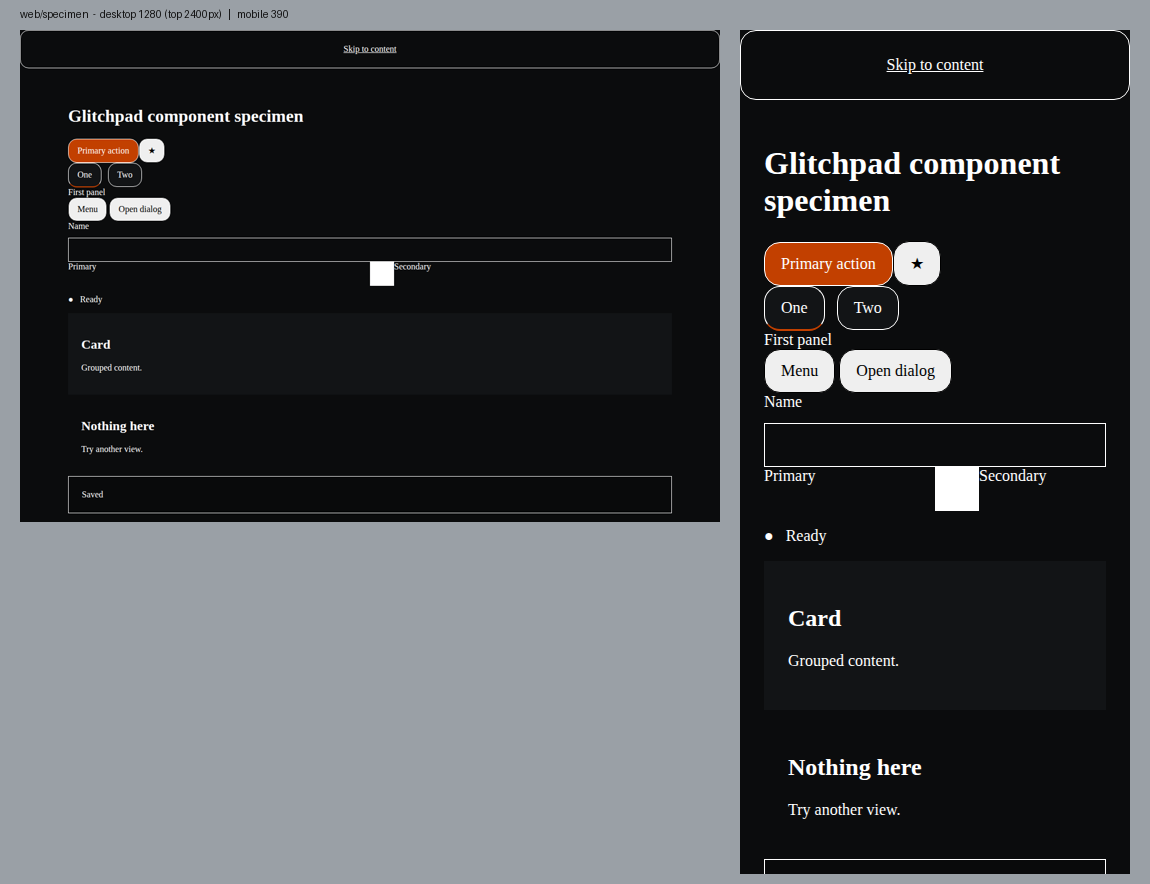
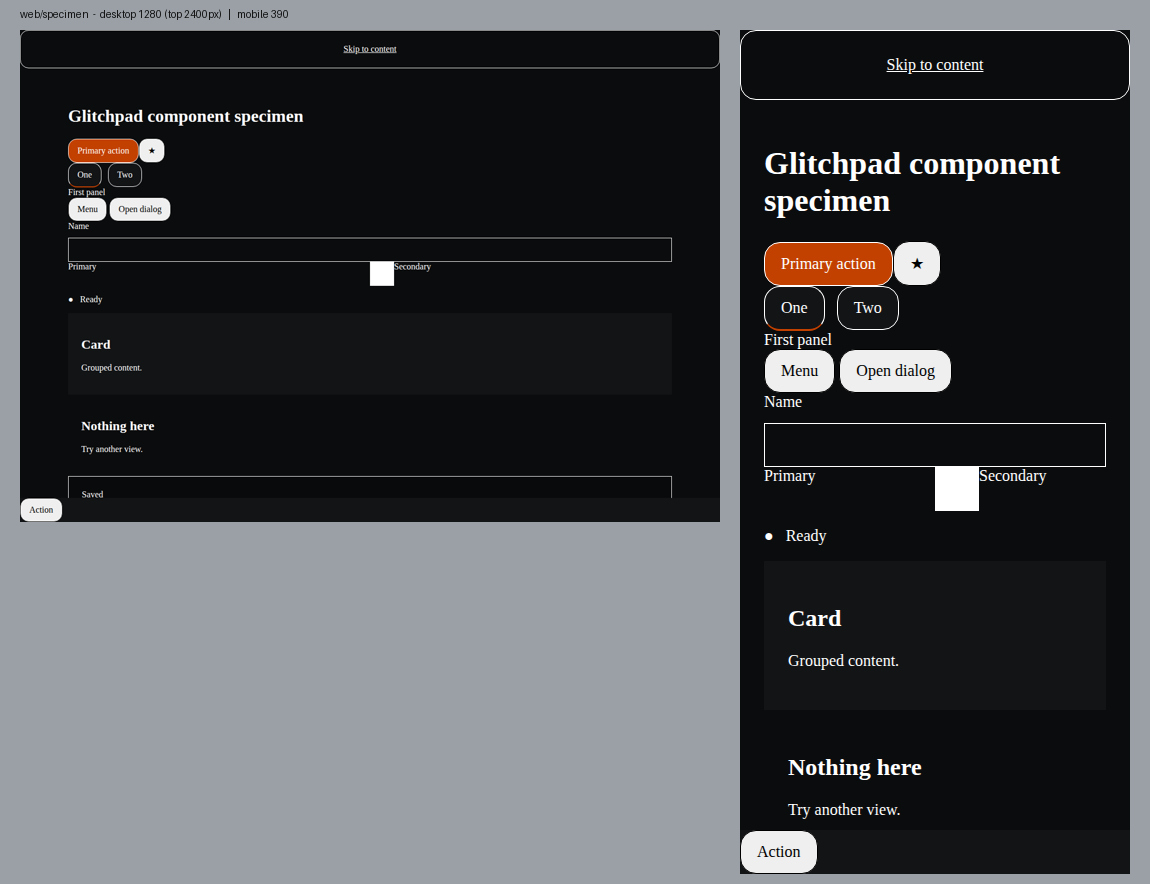
fix(S042): address AppFrame adoption review

Changed region(s): [[0.6391, 0.9163, 0.7304, 1.0], [0.0, 0.5498, 0.0609, 0.6109]]

diff --git a/brand/conformance/browser/specimen.html b/brand/conformance/browser/specimen.html
@@ -96,7 +96,7 @@
 html[data-bb-app-frame-mounted], html[data-bb-app-frame-mounted] body { block-size: 100%; margin: 0; overflow: hidden; }
 @supports selector(html:has(.bb-app-frame)) { html:has(.bb-app-frame), body:has(.bb-app-frame) { block-size: 100%; margin: 0; overflow: hidden; } }
 .bb-app-frame { block-size: 100vh; block-size: 100dvh; box-sizing: border-box; display: grid; grid-template-rows: auto minmax(0, 1fr); min-block-size: 0; overflow: hidden; padding-block-start: max(env(safe-area-inset-top), var(--bb-host-titlebar-block-end, 0rem)); padding-inline: env(safe-area-inset-left) env(safe-area-inset-right); }
-.bb-app-frame__scroll { box-sizing: border-box; min-block-size: 0; overflow: auto; padding-block-end: max(env(safe-area-inset-bottom), var(--bb-ime-block-end, 0rem)); }
+.bb-app-frame__scroll { box-sizing: border-box; grid-row: 2; min-block-size: 0; overflow: auto; padding-block-end: max(env(safe-area-inset-bottom), var(--bb-ime-block-end, 0rem)); }
 .bb-app-frame__content { box-sizing: border-box; min-block-size: 0; min-inline-size: 0; overflow-wrap: anywhere; }
 .bb-app-frame[data-bb-layout="contained"] .bb-app-frame__content { inline-size: min(100%, var(--bb-layout-content-max)); margin-inline: auto; padding: var(--bb-layout-gutter-compact); }
 .bb-app-frame[data-bb-layout="full-bleed"] .bb-app-frame__scroll { display: grid; grid-template-rows: minmax(0, 1fr); overflow: hidden; }

diff --git a/brand/web/components.css b/brand/web/components.css
@@ -12,7 +12,7 @@
 html[data-bb-app-frame-mounted], html[data-bb-app-frame-mounted] body { block-size: 100%; margin: 0; overflow: hidden; }
 @supports selector(html:has(.bb-app-frame)) { html:has(.bb-app-frame), body:has(.bb-app-frame) { block-size: 100%; margin: 0; overflow: hidden; } }
 .bb-app-frame { block-size: 100vh; block-size: 100dvh; box-sizing: border-box; display: grid; grid-template-rows: auto minmax(0, 1fr); min-block-size: 0; overflow: hidden; padding-block-start: max(env(safe-area-inset-top), var(--bb-host-titlebar-block-end, 0rem)); padding-inline: env(safe-area-inset-left) env(safe-area-inset-right); }
-.bb-app-frame__scroll { box-sizing: border-box; min-block-size: 0; overflow: auto; padding-block-end: max(env(safe-area-inset-bottom), var(--bb-ime-block-end, 0rem)); }
+.bb-app-frame__scroll { box-sizing: border-box; grid-row: 2; min-block-size: 0; overflow: auto; padding-block-end: max(env(safe-area-inset-bottom), var(--bb-ime-block-end, 0rem)); }
 .bb-app-frame__content { box-sizing: border-box; min-block-size: 0; min-inline-size: 0; overflow-wrap: anywhere; }
 .bb-app-frame[data-bb-layout="contained"] .bb-app-frame__content { inline-size: min(100%, var(--bb-layout-content-max)); margin-inline: auto; padding: var(--bb-layout-gutter-compact); }
 .bb-app-frame[data-bb-layout="full-bleed"] .bb-app-frame__scroll { display: grid; grid-template-rows: minmax(0, 1fr); overflow: hidden; }

diff --git a/brand/web/specimen.html b/brand/web/specimen.html
@@ -96,7 +96,7 @@
 html[data-bb-app-frame-mounted], html[data-bb-app-frame-mounted] body { block-size: 100%; margin: 0; overflow: hidden; }
 @supports selector(html:has(.bb-app-frame)) { html:has(.bb-app-frame), body:has(.bb-app-frame) { block-size: 100%; margin: 0; overflow: hidden; } }
 .bb-app-frame { block-size: 100vh; block-size: 100dvh; box-sizing: border-box; display: grid; grid-template-rows: auto minmax(0, 1fr); min-block-size: 0; overflow: hidden; padding-block-start: max(env(safe-area-inset-top), var(--bb-host-titlebar-block-end, 0rem)); padding-inline: env(safe-area-inset-left) env(safe-area-inset-right); }
-.bb-app-frame__scroll { box-sizing: border-box; min-block-size: 0; overflow: auto; padding-block-end: max(env(safe-area-inset-bottom), var(--bb-ime-block-end, 0rem)); }
+.bb-app-frame__scroll { box-sizing: border-box; grid-row: 2; min-block-size: 0; overflow: auto; padding-block-end: max(env(safe-area-inset-bottom), var(--bb-ime-block-end, 0rem)); }
 .bb-app-frame__content { box-sizing: border-box; min-block-size: 0; min-inline-size: 0; overflow-wrap: anywhere; }
 .bb-app-frame[data-bb-layout="contained"] .bb-app-frame__content { inline-size: min(100%, var(--bb-layout-content-max)); margin-inline: auto; padding: var(--bb-layout-gutter-compact); }
 .bb-app-frame[data-bb-layout="full-bleed"] .bb-app-frame__scroll { display: grid; grid-template-rows: minmax(0, 1fr); overflow: hidden; }

diff --git a/crates/glitchpad-host/gen/android/app/src/androidTest/java/com/shruggietech/glitchpad/shell/BrandBuilderAppFrameInstrumentedTest.kt b/crates/glitchpad-host/gen/android/app/src/androidTest/java/com/shruggietech/glitchpad/shell/BrandBuilderAppFrameInstrumentedTest.kt
@@ -145,7 +145,10 @@ class BrandBuilderAppFrameInstrumentedTest {
         assertEquals("hidden", snapshot.getString("bodyOverflow"))
         assertTrue(snapshot.getDouble("visualViewportHeight") > 0.0)
         assertTrue(snapshot.getDouble("visualViewportOffset") >= 0.0)
-        assertTrue(snapshot.getBoolean("menuInsideViewport"))
+        assertTrue(
+            "menu trigger must remain inside the visual viewport: $snapshot",
+            snapshot.getBoolean("menuInsideViewport"),
+        )
     }
 
     @Test

diff --git a/specs/041-brandbuilder-appframe-adoption/verification.md b/specs/041-brandbuilder-appframe-adoption/verification.md
@@ -3,9 +3,9 @@
 ## Traceability and authority
 
 - Upstream work slice: S042, issue [shruggietech/shruggie-brand#219](https://github.com/shruggietech/shruggie-brand/issues/219), pull request [shruggietech/shruggie-brand#231](https://github.com/shruggietech/shruggie-brand/pull/231).
-- Downstream adoption: issue [shruggietech/glitchpad#196](https://github.com/shruggietech/glitchpad/issues/196), pull request pending.
-- Consumer baseline: `3d9a56048d01bbe2e661933e2c6eaebc7526534b`. Adopted upstream candidate: `824a83f8452b815828cedafb63fca9f81c8e1d76`.
-- Artifact authority: Build run `35455144038`, artifact `10588635229`, named `verified-brand-kits-e87737f592780bcf7fcffd718932a35e596c03a6`. GitHub built the pull-request artifact at synthetic merge commit `e87737f592780bcf7fcffd718932a35e596c03a6`; its tree `589e440f713cba96ade468fa8d48d71727055943` exactly matches the adopted candidate head tree.
+- Downstream adoption: issue [shruggietech/glitchpad#196](https://github.com/shruggietech/glitchpad/issues/196), pull request [shruggietech/glitchpad#197](https://github.com/shruggietech/glitchpad/pull/197).
+- Consumer baseline: `3d9a56048d01bbe2e661933e2c6eaebc7526534b`. Adopted upstream candidate: `0ffb7f27bee7906c562b685f72789c607896f3f6`.
+- Artifact authority: Build run `35457632452`, artifact `10589306936`, named `verified-brand-kits-26383b6fbbcee55d0de615c2cd0600c6e29bdd65`. GitHub built the pull-request artifact at synthetic merge commit `26383b6fbbcee55d0de615c2cd0600c6e29bdd65`; its tree `b3aee07f94355064ae3af46481c4e3e77b8ac9d5` exactly matches the adopted candidate head tree.
 - Contract identity: Glitchpad brand `1.1.0`, Brand Canon `1.2.1`, generated React/Vite renderer adapter, Tauri host, 313 governed files.
 - Authority order: the successful SHA-qualified workflow artifact, its governed `manifest.json`, Glitchpad's immutable `brand/INTEGRATION.json` receipt, then generated kit guidance.
 - Recovery: rerun `scripts/sync-brand-kit.mjs` with the recorded source revision, workflow run, artifact identity, and retrieval date. Never reconstruct or hand-edit governed files under `brand/`.
@@ -17,21 +17,21 @@ Before adoption, Glitchpad's product-local `.app-shell` element was also the sem
 ## Test progression
 
 - Red: AppFrame composition and exact-agent-contract assertions could not pass against the pre-S042 kit because the generated adapter and enforcement contract were absent.
-- Green: the exact successful S042 artifact imported with all 313 governed files verified. Brand governance passed 24 tests plus the full manifest, provenance, agent-contract, integration, encoding, and license checker. The AppFrame product suite passed 29 tests; typecheck and production build passed; the production-CSS shell matrix passed 48 cases covering three viewports, mouse and coarse pointers, tabs, light and dark themes, forced colors, reduced motion, display scales, browser zoom, and 100-200 percent root text scaling.
+- Green: the exact successful S042 artifact imported with all 313 governed files verified. Brand governance passed 24 tests plus the full manifest, provenance, agent-contract, integration, encoding, and license checker. The AppFrame product suite passed 29 tests; typecheck and production build passed; the production-CSS shell matrix passed 48 cases covering three viewports, mouse and coarse pointers, tabs, light and dark themes, forced colors, reduced motion, display scales, browser zoom, and 100-200 percent root text scaling. Documentation formatting also passed after the generated contract gained formatter-stable Markdown spacing.
 - Local aggregate observation: 298 of 300 frontend tests passed in the Windows bind-mounted validation container. Two pre-existing Mermaid render cases exceeded their five-second per-test timeout after unusually slow jsdom setup; the focused AppFrame suite and production build were green in the same environment. This local infrastructure result is not substituted for CI and remains open until the native CI matrix reports.
 
 ## Host evidence
 
-- Android: pending CI execution on the actual Tauri WebView at API 24 and API 36. The instrumentation contract measures one AppFrame, one main landmark, root overflow ownership, portrait and landscape bounds, live visual-viewport or legacy viewport fallback values, IME variables, menu reachability, and API 36 cutout insets.
-- Windows: pending CI execution of the real Tauri build/package and existing installed/portable lifecycle checks. Browser geometry remains supporting evidence only.
+- Android: the initial PR run `35457241343` reached the actual Tauri WebView on API 24 and API 36. Both hosts passed portrait and landscape AppFrame ownership before menu disclosure, then reproduced the reviewed headerless-row defect when the disclosed menu moved outside the reported visual viewport. The corrected artifact is pending the replacement host run. The instrumentation contract measures one AppFrame, one main landmark, root overflow ownership, portrait and landscape bounds, live visual-viewport or legacy viewport fallback values, IME variables, menu reachability, and API 36 cutout insets.
+- Windows: the initial PR and push package runs `35457241332` and `35457224247` built the real NSIS candidate and reached the installed lifecycle, where UI Automation could not discover the editor after the headerless content track collapsed. Shared Windows host checks passed. The corrected artifact is pending the replacement package run; browser geometry remains supporting evidence only.
 
 ## Observations and limitations
 
 - The downstream app deliberately uses the bounded generated `full-bleed` layout because Glitchpad already owns its document-local scrolling and compact shell chrome.
 - Tauri retains native window/titlebar authority. AppFrame owns only web safe-area, visual viewport, IME, and root layout geometry.
 - API 24 has no platform display-cutout API. Its evidence records that limitation while still proving the same AppFrame, orientation, IME, focus, and menu contract.
-- Historical baseline timings, prior correction counts, and fresh-session measurements were not recorded at `3d9a560`, so no retrospective numbers are invented. Post-adoption observations currently include one automatic upstream Codex review round with three corrected findings, two integration-driven upstream corrections (legacy Android WebView geometry and complete site adapter staging), and one downstream provenance correction separating the adopted head from GitHub's synthetic artifact commit.
-- The official artifact import, including Docker startup and 313-file verification, completed locally in 6.6 seconds. Deterministic brand validation completed in 8.5 seconds. Review-round totals, escaped defects, actual-host results, fresh-session continuation, and final handover completeness will be updated from observed PR evidence before merge.
+- Historical baseline timings, prior correction counts, and fresh-session measurements were not recorded at `3d9a560`, so no retrospective numbers are invented. Post-adoption observations currently include one automatic upstream Codex review round with three corrected findings, two integration-driven upstream corrections (legacy Android WebView geometry and complete site adapter staging), one downstream provenance correction separating the adopted head from GitHub's synthetic artifact commit, and one automatic downstream Codex review round with two accepted findings (headerless AppFrame row placement and repository-relative generated guidance).
+- The final official artifact import, including Docker startup and 313-file verification, completed locally in 7.4 seconds. Deterministic brand validation and 24 contract tests completed in 4.1 seconds; the subsequent full check including process startup completed in 18.8 seconds. Review-round totals, corrected actual-host results, fresh-session continuation, and final handover completeness will be updated from observed PR evidence before merge.
 
 ## Merge order
 

diff --git a/brand/INTEGRATION.md b/brand/INTEGRATION.md
@@ -1,8 +1,8 @@
 # Repository integration
 
-Glitchpad brand 1.1.0 under ShruggieTech canon 1.2.1 was imported from the successful `verified-brand-kits-e87737f592780bcf7fcffd718932a35e596c03a6` artifact built at GitHub pull-request merge commit `e87737f592780bcf7fcffd718932a35e596c03a6` in Build run `35455144038` (artifact `10588635229`). The adopted upstream candidate is head commit `824a83f8452b815828cedafb63fca9f81c8e1d76`; the pilot evidence records the required tree-equivalence check between those two commits. The workflow also produced the candidate Pages deployment.
+Glitchpad brand 1.1.0 under ShruggieTech canon 1.2.1 was imported from the successful `verified-brand-kits-26383b6fbbcee55d0de615c2cd0600c6e29bdd65` artifact built at GitHub pull-request merge commit `26383b6fbbcee55d0de615c2cd0600c6e29bdd65` in Build run `35457632452` (artifact `10589306936`). The adopted upstream candidate is head commit `0ffb7f27bee7906c562b685f72789c607896f3f6`; the pilot evidence records the required tree-equivalence check between those two commits. The workflow also produced the candidate Pages deployment.
 
[2 lines of base64/hex data omitted]
 
 One deterministic integration correction intentionally differs from the artifact bytes: `brand/README.md` replaces the artifact-layout-relative `../../LICENSE-BRAND.md` target with the immutable upstream URL at the pinned candidate head so the legal terms remain reachable from this repository. `brand/manifest.json` governs the corrected file bytes. This correction is performed only by `scripts/sync-brand-kit.mjs`, never by hand.
 

diff --git a/AGENTS.md b/AGENTS.md
@@ -44,7 +44,11 @@
 - The validated visibility probes are `scripts/invoke-docker-hidden.ps1 -DockerArguments @('run', '--rm', 'alpine:3.22', 'sleep', '180')` and `scripts/invoke-wsl-hidden.ps1 -Command 'sleep 180'`. Any visible window, taskbar activation, flash, or focus change is a hard failure. Stop the launcher immediately and do not continue repository commands.
 
 <!-- BEGIN GENERATED BRANDBUILDER AGENT CONTRACT -->
+
+Repository integration context: generated paths are kit-root-relative. In this repository, the kit root is `brand/`; resolve `consumer-contract.json` and `IMPLEMENTATION.md` in `brand/enforcement/`, and prefix every generated `enforcement/...` path with `brand/`.
+
 <!-- BEGIN SHRUGGIE-BRANDBUILDER: CONSUMER CONTRACT -->
+
 ## Governed BrandBuilder contract
 
 BrandBuilder is mandatory for brand-system authoring, consumer implementation, and conformance audit. This kit pins Brand Canon `1.2.1`, Interface Canon `1.0.0`, component recipes `1.1.0`, Web/React adapter `1.1.0`, egui adapter `1.0.0`, compiler `1.3.0`, and brand `1.1.0`.
@@ -53,6 +57,6 @@ Read `consumer-contract.json`, then `IMPLEMENTATION.md`. The pinned contract out
 
 Affiliation boundary: this is a ShruggieTech-owned child brand with declared parent `ShruggieTech`.
 
[2 lines of base64/hex data omitted]
 <!-- END SHRUGGIE-BRANDBUILDER: CONSUMER CONTRACT -->
 <!-- END GENERATED BRANDBUILDER AGENT CONTRACT -->

diff --git a/brand/enforcement/AGENTS.md b/brand/enforcement/AGENTS.md
@@ -1,4 +1,5 @@
 <!-- BEGIN SHRUGGIE-BRANDBUILDER: CONSUMER CONTRACT -->
+
 ## Governed BrandBuilder contract
 
 BrandBuilder is mandatory for brand-system authoring, consumer implementation, and conformance audit. This kit pins Brand Canon `1.2.1`, Interface Canon `1.0.0`, component recipes `1.1.0`, Web/React adapter `1.1.0`, egui adapter `1.0.0`, compiler `1.3.0`, and brand `1.1.0`.
@@ -7,5 +8,5 @@ Read `consumer-contract.json`, then `IMPLEMENTATION.md`. The pinned contract out
 
 Affiliation boundary: this is a ShruggieTech-owned child brand with declared parent `ShruggieTech`.
 
[2 lines of base64/hex data omitted]
 <!-- END SHRUGGIE-BRANDBUILDER: CONSUMER CONTRACT -->

diff --git a/brand/README.md b/brand/README.md
@@ -95,4 +95,4 @@ Run the scripts from `build/` with the dependencies described in `build/README.m
 
 Set `A ShruggieTech project` in Geist Mono, uppercase, with positive tracking. Keep it visually subordinate and outside the product logo clear space.
 
-Names, wordmarks, logos, endorsement lockups, and logo path geometry remain reserved as described in the repository's [brand asset terms](https://raw.githubusercontent.com/shruggietech/shruggie-brand/824a83f8452b815828cedafb63fca9f81c8e1d76/LICENSE-BRAND.md).
+Names, wordmarks, logos, endorsement lockups, and logo path geometry remain reserved as described in the repository's [brand asset terms](https://raw.githubusercontent.com/shruggietech/shruggie-brand/0ffb7f27bee7906c562b685f72789c607896f3f6/LICENSE-BRAND.md).

diff --git a/brand/enforcement/IMPLEMENTATION.md b/brand/enforcement/IMPLEMENTATION.md
@@ -41,7 +41,7 @@ Success means zero verifier problems and zero glyph failures.
 
 ## Offline recovery
 
[2 lines of base64/hex data omitted]
 
 Capability gaps stay local at `enforcement/capability-gap.example.json` until a human explicitly authorizes upstream submission.
 
